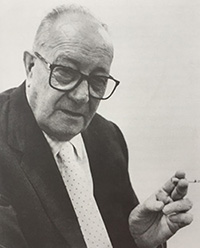
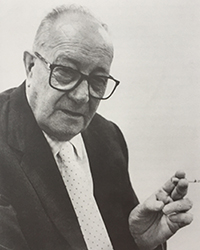
ok

diff --git a/site/modern/costantini.html b/site/modern/costantini.html
@@ -211,7 +211,7 @@
 <div id="main-content" class="container">
   <h3>EGIDIO COSTANTINI</h3>
   <div class="photo">
-  <img width="200" height="248" src="images/costantini.jpg" alt="Costantini">
+  <img width="200" height="250" src="images/costantini.jpg" alt="Costantini">
   </div>
   <p class="text-center">Lorem ipsum dolor sit amet, consectetur adipisicing elit, sed do eiusmod
   tempor incididunt ut labore et dolore magna aliqua. Ut enim ad minim veniam,
@@ -254,7 +254,7 @@
       <section id="biography" class="col-sm-4">
         <div class="biography">
           <h5>BIOGRAPHY</h5>
-          <a href="costantini.html"><img class="responsive" width="150" height="186" src="images/costantini.jpg" alt="Costantini"></a>
+          <a href="costantini.html"><img class="responsive" width="150" height="188" src="images/costantini.jpg" alt="Costantini"></a>
           <span>Egidio Costantini</span>
           <hr class="visible-xs">
         </div>
